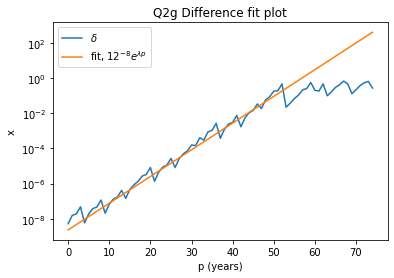
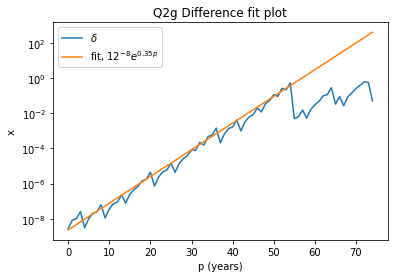
Q3 done

diff --git a/Lab1/ZRD/Q3/Q3.py b/Lab1/ZRD/Q3/Q3.py
@@ -1,0 +1,60 @@
+# -*- coding: utf-8 -*-
+"""
+Created on Wed Sep 16 10:20:05 2020
+
+@author: rundo
+"""
+import scipy.constants as spc
+import numpy as np
+from matplotlib import pyplot as plt
+from random import random
+from Q3_mult import mult
+from time import time
+
+N = 160
+
+A = np.ones([N, N], float)*3
+B = np.ones([N, N], float)*4
+C = np.ones([N, N], float)*0
+
+d_0 = []
+d_1 = []
+
+Nx = np.arange(2,N,1)
+
+#method referring to textbook
+for i in range(2,N):
+    start = time()
+    C = mult(A, B, i)
+    end = time()
+    diff = end - start
+    d_0.append(diff)
+    print(i)
+
+#numpy.dot 
+for i in range(2,N):
+    start = time()
+    C_alt = np.dot(A, B)
+    end = time()
+    diff = end - start
+    d_1.append(diff)
+'''
+####Plot vs N#####
+plt.plot(Nx, d_0, label = 'Text book method')
+plt.plot(Nx, d_1, label = 'numpy.dot')
+plt.xlabel('N')
+plt.ylabel('time (s)')
+plt.title('Run time vs N')
+plt.legend()
+'''
+#####Plot vs N^3####
+
+for i in range(0,N-2):
+    Nx[i] = Nx[i]**3
+    
+plt.plot(Nx, d_0, label = 'Text book method')
+plt.plot(Nx, d_1, label = 'numpy.dot')
+plt.xlabel('N$^3$')
+plt.ylabel('time (s)')
+plt.title('Run time vs N$^3$')
+plt.legend()

diff --git a/Lab1/ZRD/Q2/Q2g.py b/Lab1/ZRD/Q2/Q2g.py
@@ -24,14 +24,16 @@ delta = []
 f = []
 year = np.arange(0,p,1)
 
+#calculate difference
 for i in range(p):
     delta.append(abs(x_2[i]-x_1[i]))
-    
+
+#calculate fit function
 for i in range(p):
     f.append(fit(12**-8, 0.35, i))
     
 plt.plot(year, delta, label = '$\delta$')
-plt.plot(year, f, label = 'fit, $12^{-8}e^{\lambda p}$')
+plt.plot(year, f, label = 'fit, $12^{-8}e^{0.35p}$')
 plt.legend()
 print(len(f))
 plt.xlabel('p (years)')

diff --git a/Lab1/ZRD/Q3/Q3_mult.py b/Lab1/ZRD/Q3/Q3_mult.py
@@ -1,0 +1,18 @@
+# -*- coding: utf-8 -*-
+"""
+Created on Wed Sep 16 10:35:19 2020
+
+@author: rundo
+"""
+import numpy as np
+
+
+def mult(A, B, N):
+    
+    C = np.ones([N, N], float)*0
+    for i in range(N):
+        for j in range(N):
+            for k in range(N):
+                C[i,j] += A[i,k] * B[k,j]
+                
+    return C
